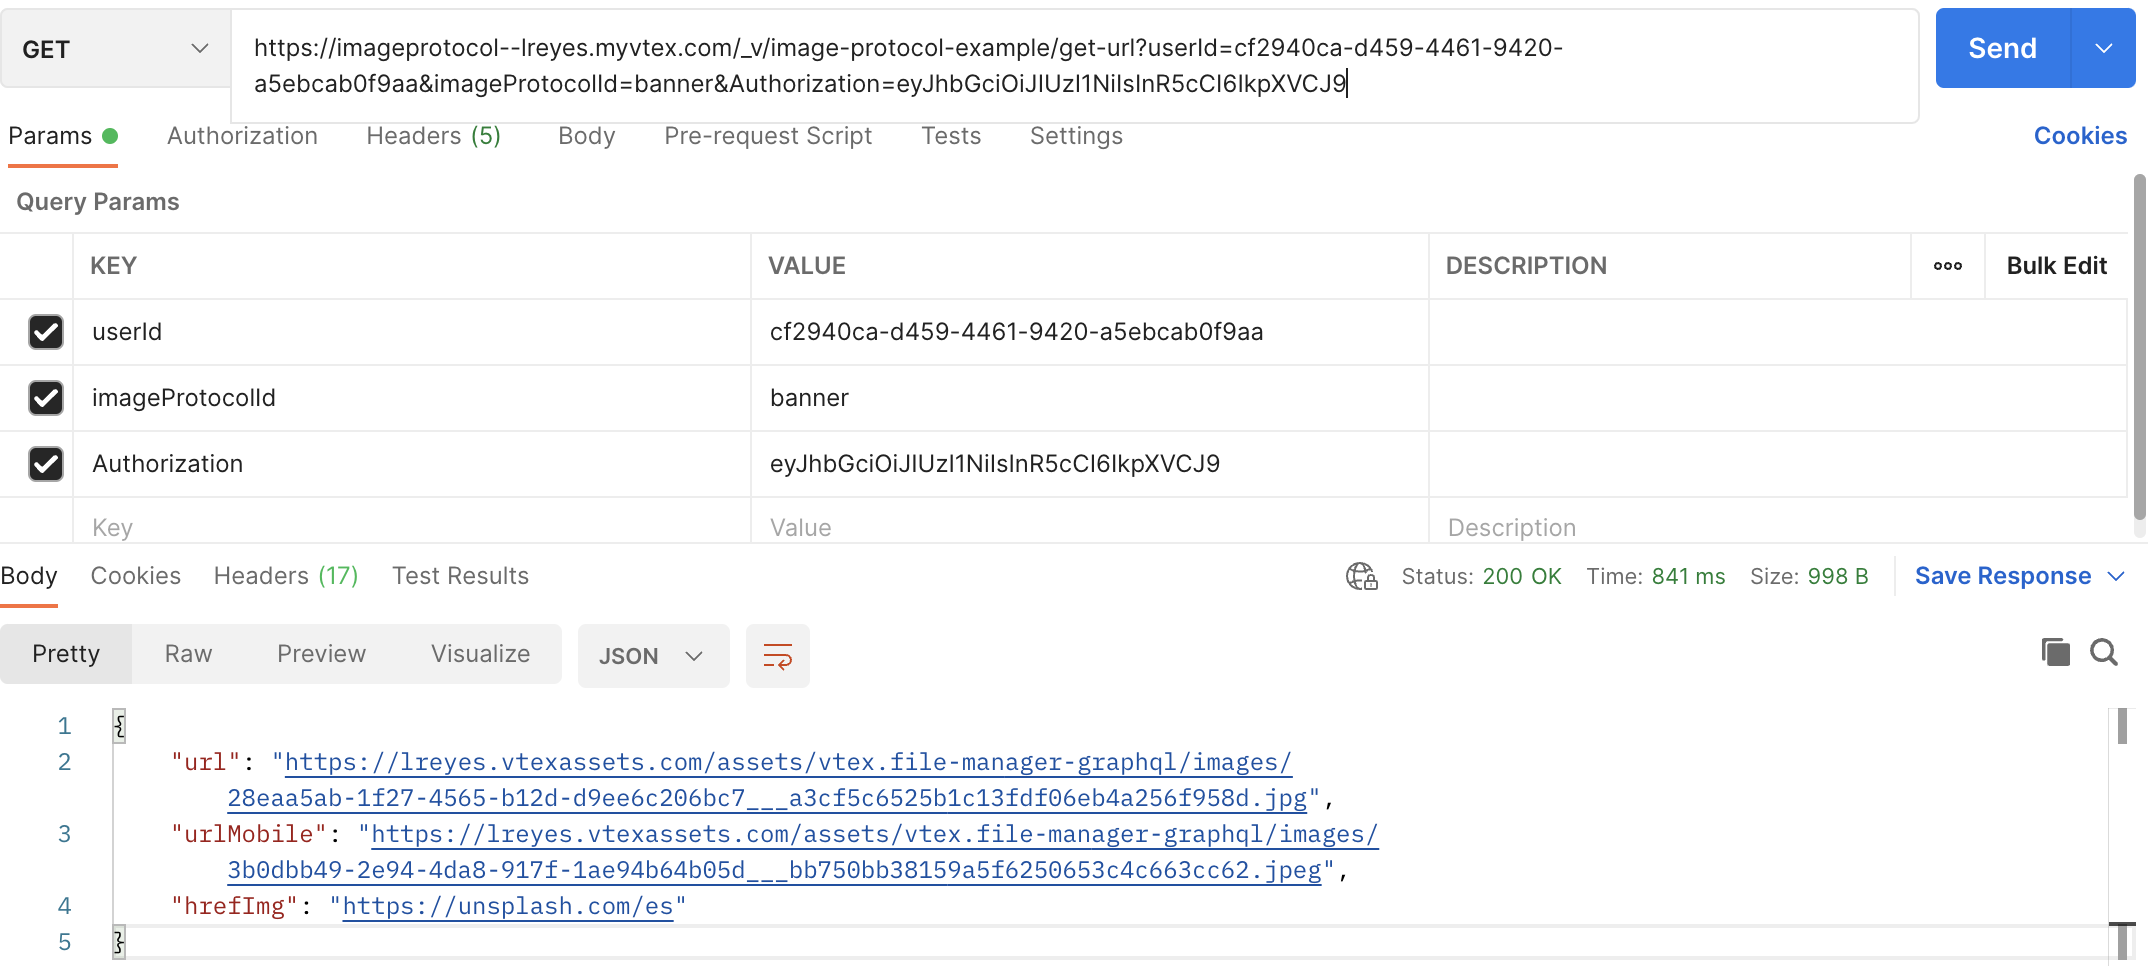
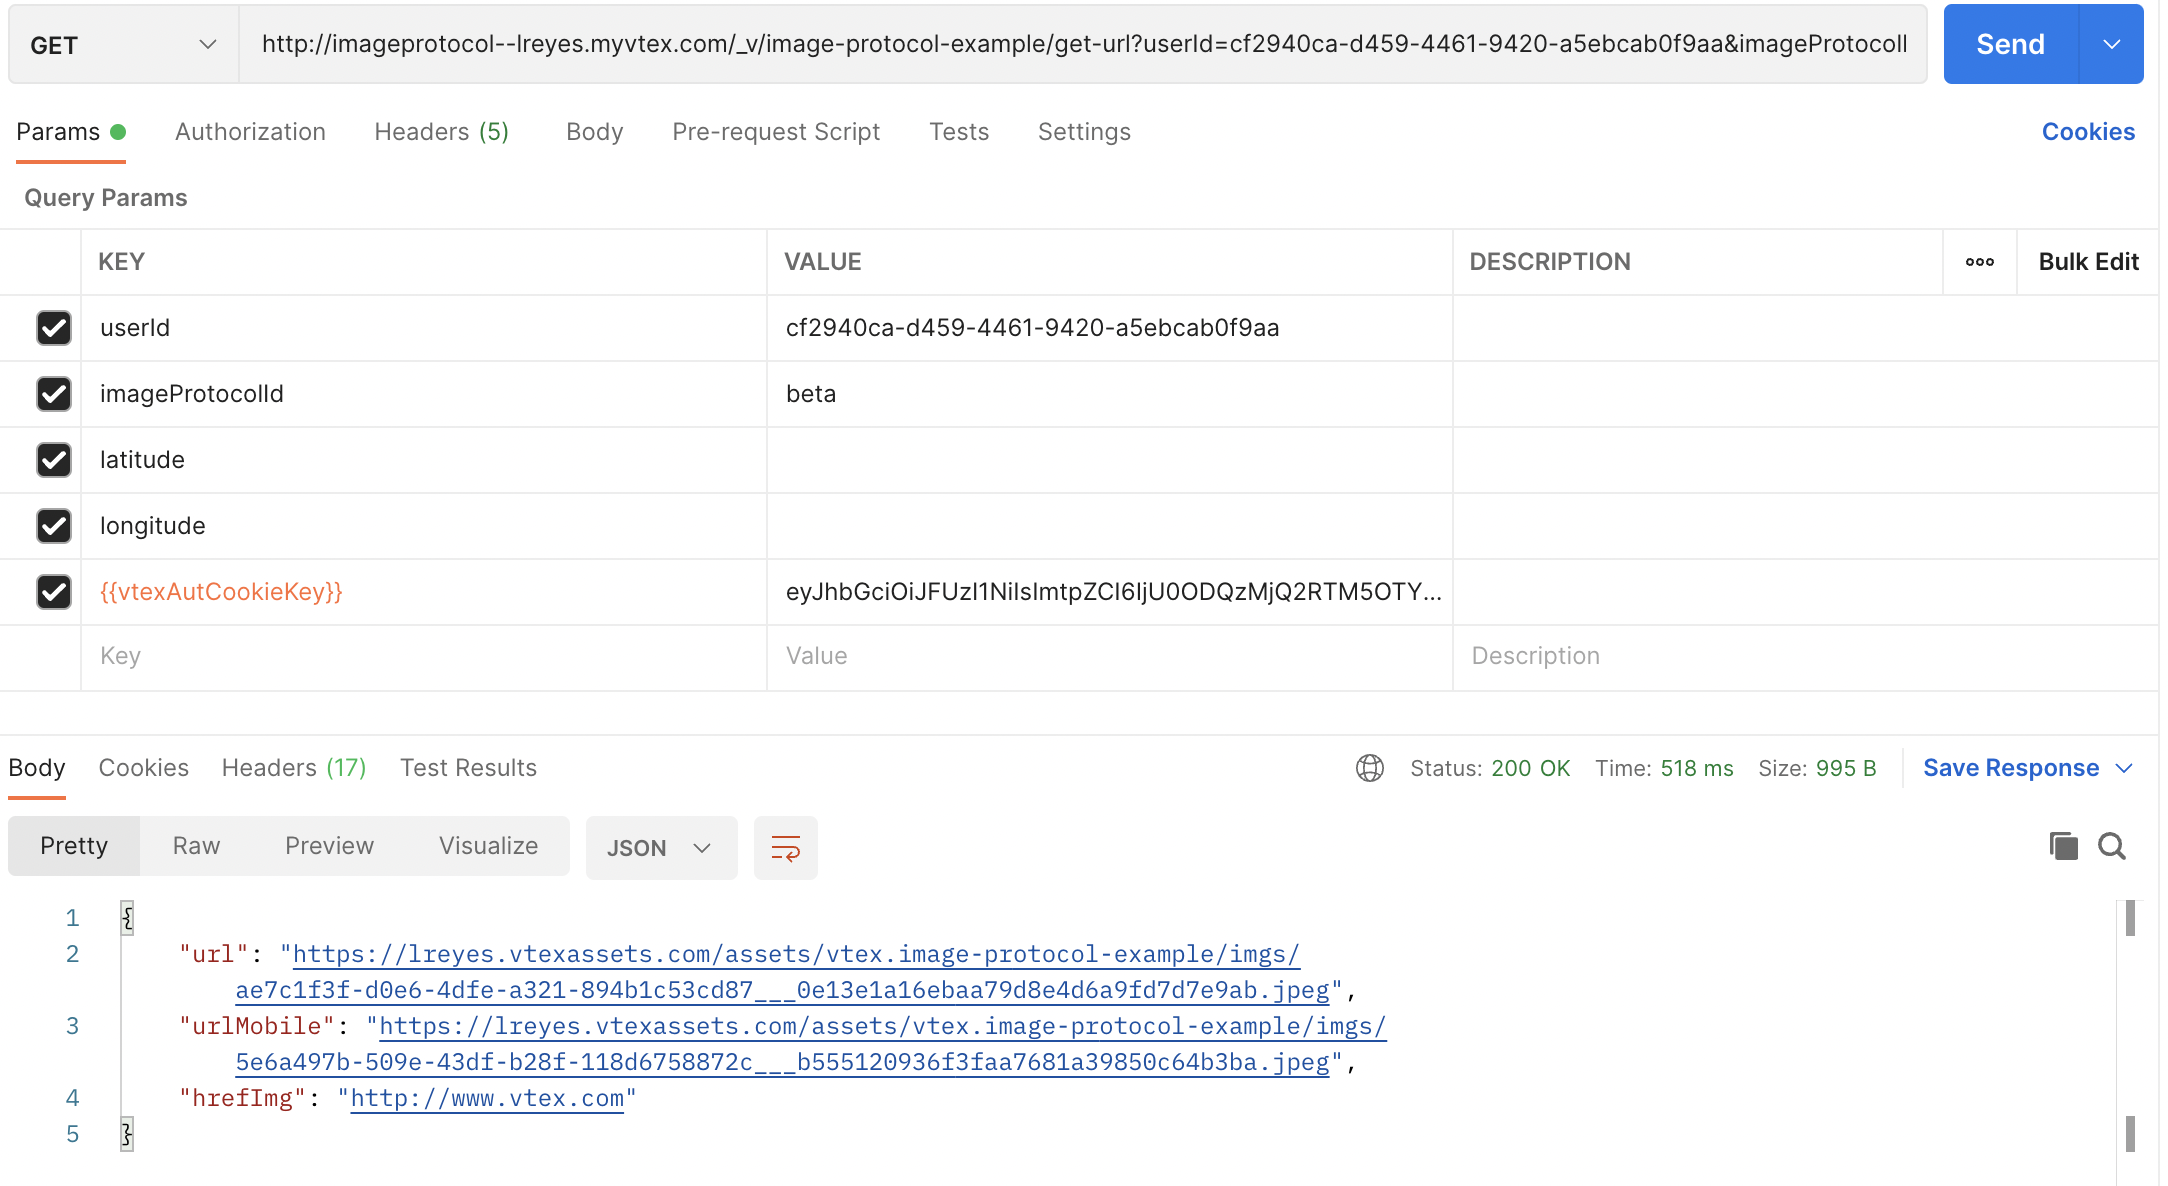
readme updated

diff --git a/docs/README.md b/docs/README.md
@@ -4,7 +4,7 @@
 
 ## Description
 
-An example app to implement image protocol. This app creates a new section in the Admin panel through which the user can save data in vbase (in this case we are saving customer class, URLs for desktop and mobile, and the id for the image component that will render the image). At the same time this app creates the API endpoint to retrieve the URLs using the customer class and id of the image passed as params.
+An example app to implement image protocol. This app creates a new section in the Admin panel through which the user can save data in vbase (in this specific case we are saving customer class, polygon, URLs for desktop and mobile, href to redirect and the id for the component that will render the content). At the same time this app creates an endpoint to retrieve the URLs using the data passed as params.
 
 ## GraphQL mutations
 
@@ -80,9 +80,9 @@ After doing that, you will receive a response similar to this one:
 
 ```json
 {
-  "url": "https://lreyes.vtexassets.com/assets/vtex.file-manager-graphql/images/261f8852-22b6-4048-b688-37a7d61ddd48___200c03de6f2e80dc23434cff4caf7f9a.jpeg",
-  "urlMobile": "https://lreyes.vtexassets.com/assets/vtex.file-manager-graphql/images/0500ef76-eaf4-4b6c-bd01-08e69c4e4744___a3cf5c6525b1c13fdf06eb4a256f958d.jpg",
-  "hrefImg": "https://www.unsplash.com/es"
+  "url": "https://lreyes.vtexassets.com/assets/vtex.image-protocol-example/imgs/ae7c1f3f-d0e6-4dfe-a321-894b1c53cd87___0e13e1a16ebaa79d8e4d6a9fd7d7e9ab.jpeg",
+  "urlMobile": "https://lreyes.vtexassets.com/assets/vtex.image-protocol-example/imgs/5e6a497b-509e-43df-b28f-118d6758872c___b555120936f3faa7681a39850c64b3ba.jpeg",
+  "hrefImg": "http://www.vtex.com"
 }
 ```
 
